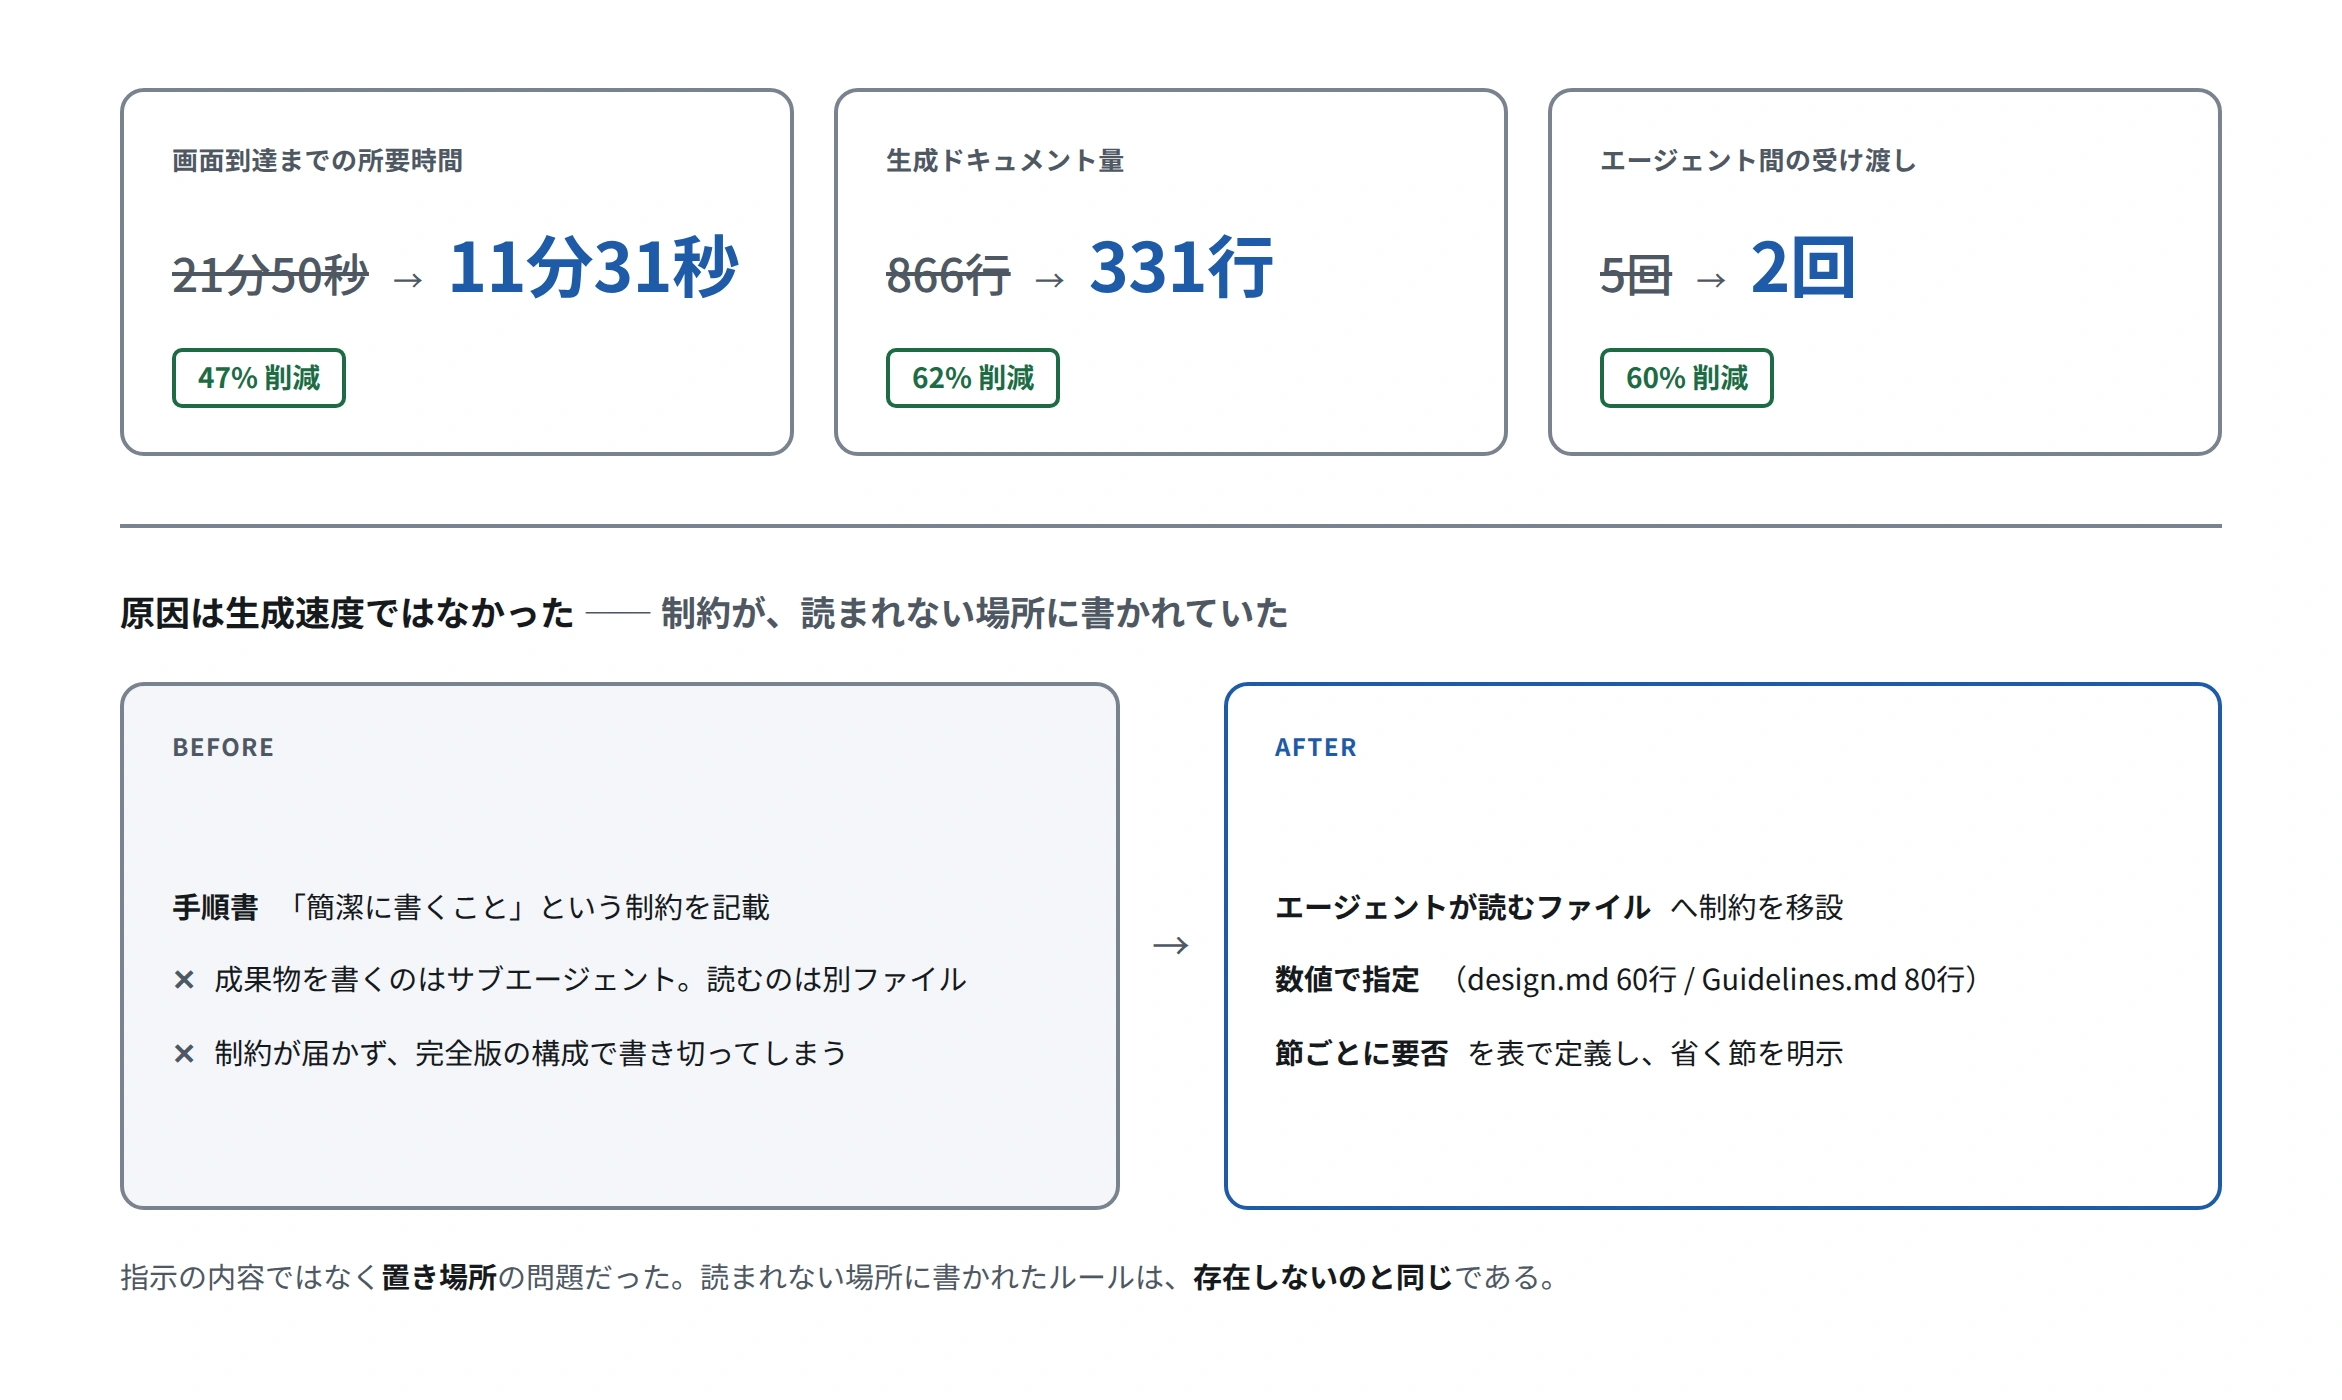
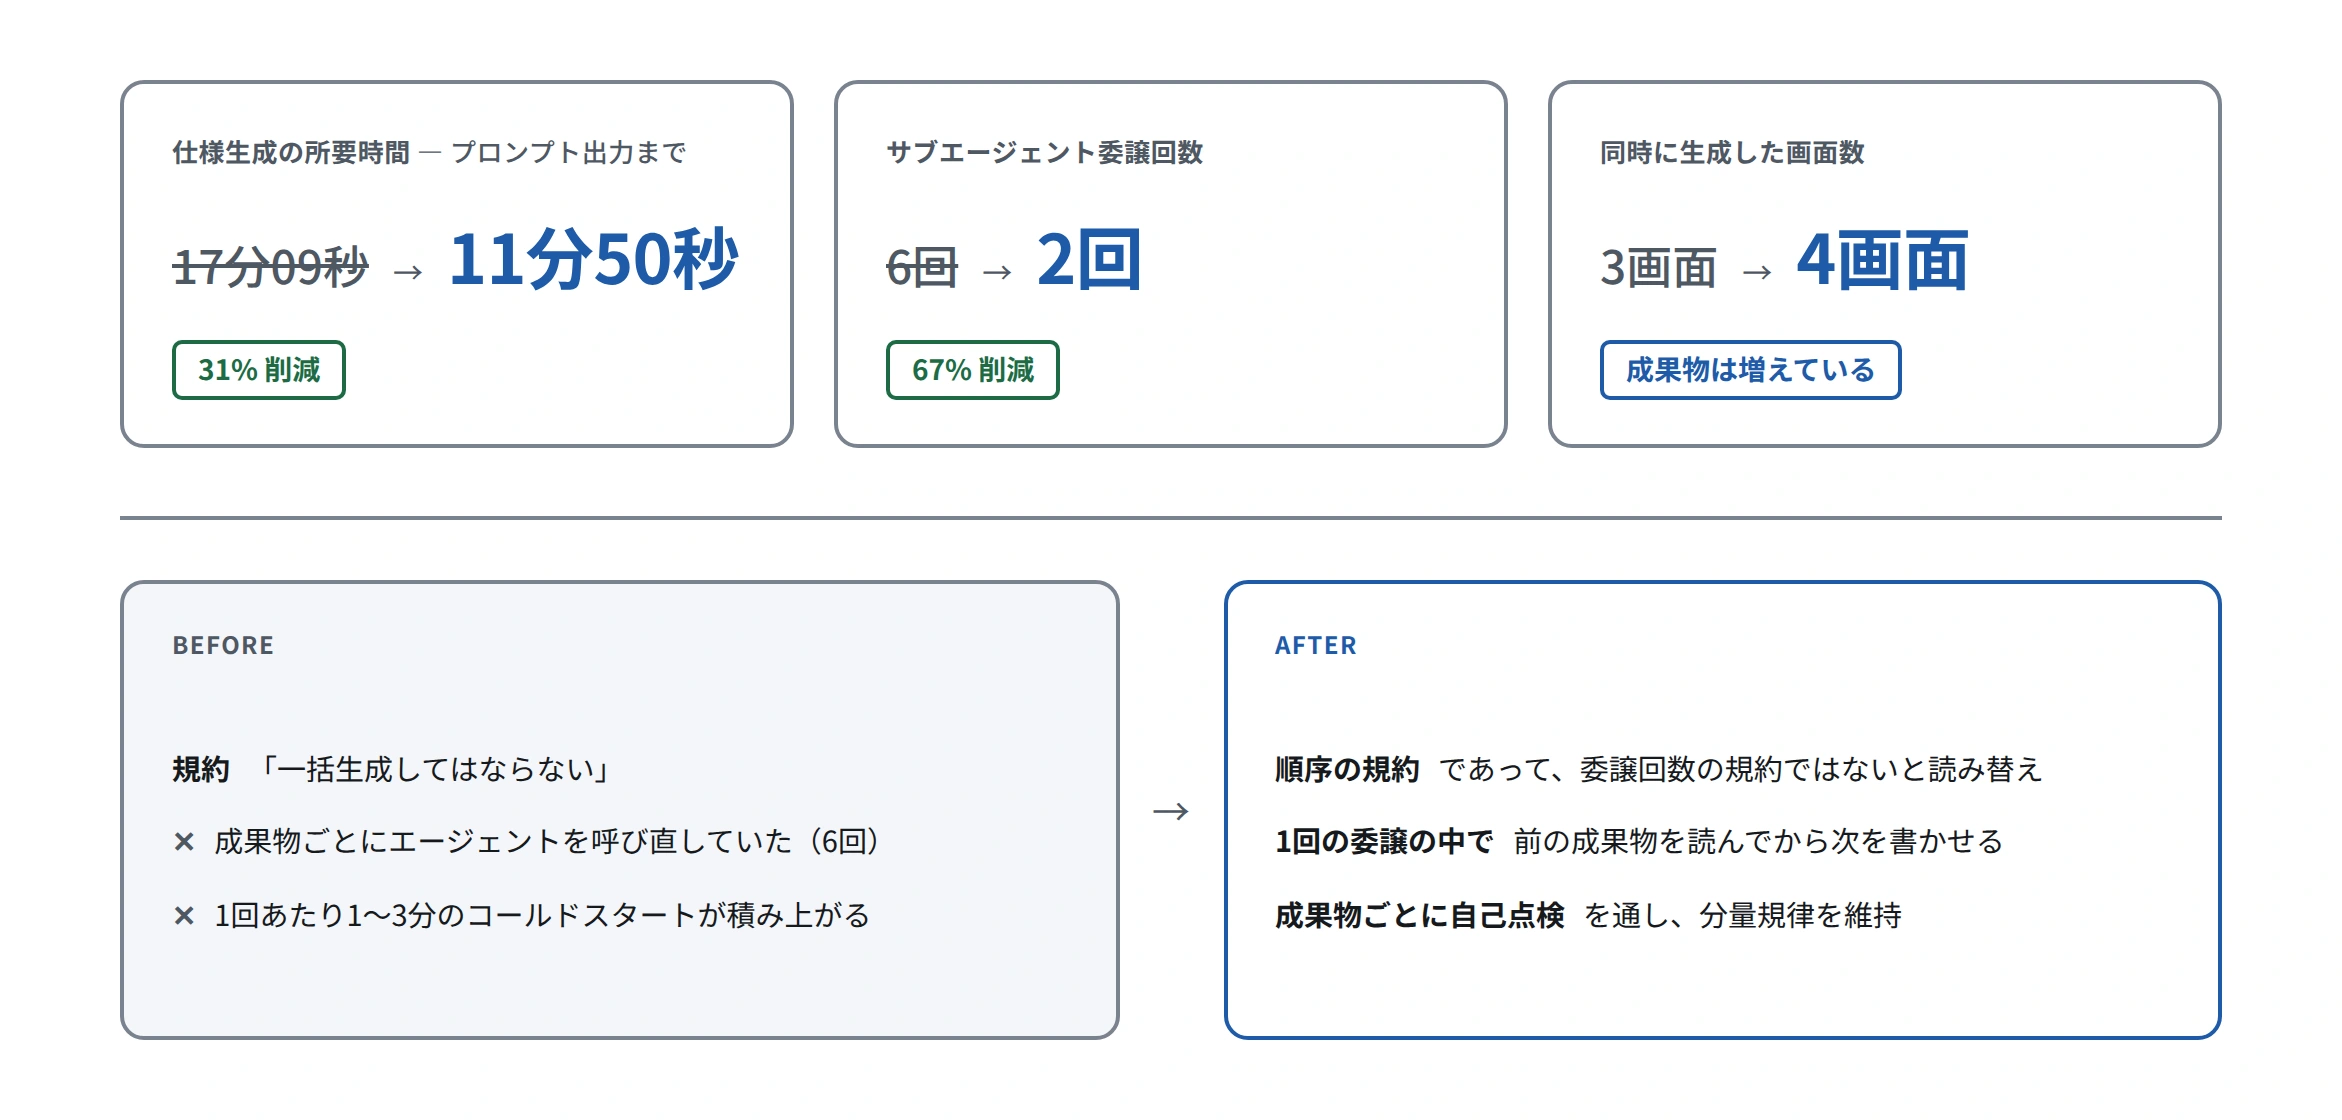
V1.75

diff --git a/data/works/spec-driven-prototyping.ts b/data/works/spec-driven-prototyping.ts
@@ -13,13 +13,13 @@ export const specDrivenPrototyping: Work = {
       "顧客との対話をもとにその場でプロトタイプを作るには、スピードだけでなく、要件や設計判断の根拠を残しながら品質を担保する必要がある。",
 
     solution: [
-      "ヒアリングからプロトタイプ生成までの一気通貫したAIワークフロー。",
-      "DRAFT / ITERATEによる、スピードと品質の両立。",
-      "品質ゲートと自動検証による、設計根拠と品質の担保。",
+      "ヒアリングから画面生成までを一気通貫でつなぐAIワークフロー。仕様生成11分50秒、生成工程で必要な人手操作は約30秒。",
+      "DRAFT / ITERATEの二段階設計。商談中は止まらず、検証は商談後に回す。",
+      "WCAG比率の再計算や機密混入の検出を4本のスクリプトで自動判定し、CIで常時実行。",
     ],
 
     role: {
-      text: "ワークフロー設計、AIエージェント設計、プロンプト設計、Claude Code実装、品質検証",
+      text: "ワークフロー設計、AIエージェント設計、プロンプト設計、Claude Code実装、検証スクリプト実装、計測と改善",
       font: "sans",
     },
 
@@ -38,6 +38,8 @@ export const specDrivenPrototyping: Work = {
       { text: "FigJam", font: "en" },
       { text: "Figma MCP", font: "en" },
       { text: "Figma Make", font: "en" },
+      { text: "Python", font: "en" },
+      { text: "GitHub Actions", font: "en" },
     ],
 
     links: [
@@ -79,8 +81,8 @@ export const specDrivenPrototyping: Work = {
       alt: "AI開発ワークフローの全体構成",
       caption:
         "ヒアリングから仕様化・プロトタイプ制作・レビューまでをつなぐワークフロー",
-      width: 3200,
-      height: 1828,
+      width: 2800,
+      height: 1600,
     },
 
     {
@@ -104,8 +106,8 @@ export const specDrivenPrototyping: Work = {
       src: "/images/works/spec-driven-prototyping/detail-02.webp",
       alt: "3つのAIエージェントと再利用層・案件層の構成",
       caption: "エージェントや知識を再利用層に、案件ごとの成果物を案件層に分離",
-      width: 2816,
-      height: 1536,
+      width: 2342,
+      height: 1400,
     },
 
     {
@@ -113,7 +115,7 @@ export const specDrivenPrototyping: Work = {
       label: "Knowledge Architecture",
       title: "答えではなく、判断基準を与える",
       titleFont: "sans",
-      body: "AIエージェントには、特定の配色やレイアウトといった「正解」をあらかじめ持たせていません。\n\n代わりに、UIデザインやアクセシビリティなどのベストプラクティスを判断基準として参照し、案件の要件や利用文脈から設計を導く構造にしました。\n\n例えば、夜間利用ではダークUI、屋外利用ではライトUIというように、同じ判断基準から利用文脈に応じた設計を導き、その理由も記録します。",
+      body: "AIエージェントには、特定の配色やレイアウトといった「正解」をあらかじめ持たせていません。\n\n代わりに、ISO 9241-11、WCAG、Fittsの法則、OWASPなどを判断基準として参照させ、案件の要件や利用文脈から設計を導く構造にしました。\n\n例えば、夜間利用ではダークUI、屋外利用ではライトUIというように、同じ判断基準から利用文脈に応じた設計を導き、その理由も記録します。\n\nまた、各知識ファイルには出典を明記しています。11ファイルのうち3つは外部の裏付けがない自作の規約であることも明示し、AIが参照する知識の根拠まで確認できるようにしました。",
     },
 
     {
@@ -121,8 +123,8 @@ export const specDrivenPrototyping: Work = {
       src: "/images/works/spec-driven-prototyping/detail-03.webp",
       alt: "プロジェクト情報と判断基準から設計判断を導くAIエージェントの構造",
       caption: "要件・知識・制約をもとに設計を判断し、その根拠をADRとして残す",
-      width: 2816,
-      height: 1536,
+      width: 2342,
+      height: 1400,
     },
 
     {
@@ -130,7 +132,7 @@ export const specDrivenPrototyping: Work = {
       label: "Quality Gate",
       title: "AIの出力を、そのまま正解にしない",
       titleFont: "sans",
-      body: "AIが生成した内容をそのまま採用せず、確認してから次の工程へ進む仕組みを設けました。\n\n数値で確認できるものは自動検証し、要件や設計の整合性など判断が必要なものは人間がレビューします。\n\n例えばアクセシビリティでは、画面のコントラスト比を自動で計算し、基準を満たしているか確認できるようにしています。実際にこの検証で、自分が定めたデザイン規約が可読性より優先される書き方になっていた箇所を発見し、規約自体を修正しました。\n\nまた、外部サービスへ渡すファイルに顧客の発言や機密情報が残っていないかも自動検査しています。渡さないと決めたヒアリング記録の内容が、別のファイルへ引用として転記されていた箇所を実際に検出しました。",
+      body: "AIの出力をそのまま採用せず、数値で判定できるものは自動検証し、要件や設計の整合性など判断が必要なものは人間がレビューする仕組みにしました。\n\n例えばアクセシビリティでは、画面のコントラスト比を自動計算して基準への適合を確認します。この検証によって、自作のデザイン規約が可読性より優先される問題を発見し、規約自体を修正しました。\n\nまた、外部サービスへ渡すファイルに顧客の発言や機密情報が残っていないかも検査します。実際に、渡さないと決めたヒアリング内容が別ファイルへ転記されている箇所を検出しました。\n\nこれらを4本のスクリプトにまとめ、ファイル作成時とGitHubへの反映時に自動実行。AIの判断に依存せず、仕組みとして検査が実行される構造にしています。",
     },
 
     {
@@ -139,7 +141,7 @@ export const specDrivenPrototyping: Work = {
       alt: "WCAGコントラスト比を自動検証するスクリプト",
       caption: "数値で判定できる品質基準は、AIの自己申告ではなく自動検証",
       width: 2342,
-      height: 1200,
+      height: 1400,
     },
 
     {
@@ -147,16 +149,17 @@ export const specDrivenPrototyping: Work = {
       label: "Validation",
       title: "実際に動かして、仕組みを改善する",
       titleFont: "sans",
-      body: "設計したワークフローを実際に動かし、生成時間や成果物を検証しました。\n\n初回は21分50秒・866行を要しましたが、処理を分析すると、出力量を制限する指示がAIエージェントまで正しく伝わっていないことが判明しました。\n\n指示する場所と生成範囲を見直した結果、11分31秒・331行まで削減。同一の入力で2回計測し、所要時間を約47%、生成量を約62%、エージェント間の受け渡しを約60%削減しました。",
+      body: "設計したワークフローを実際に動かして生成時間を計測し、ボトルネックを改善しました。\n\n計測の結果、成果物ごとにAIエージェントを呼び直していたことで、起動時間が積み上がっていることが分かりました。原因は、自分で定めたエージェント運用規約の解釈ミスでした。そこで委譲を6回から2回へ統合し、仕様生成時間を17分09秒から11分50秒へ約31%短縮しました。生成する画面が3画面から4画面へ増えたうえでの短縮です。\n\nプロトタイプ生成までの全体所要時間は約20〜28分で、そのうち人手による操作はファイル添付とプロンプト貼付の約30秒です。",
     },
 
     {
       type: "image",
       src: "/images/works/spec-driven-prototyping/detail-05.webp",
       alt: "AI開発ワークフロー改善前後の比較",
-      caption: "ワークフロー改善前後：所要時間 約47%削減 / 生成量 約62%削減",
+      caption:
+        "委譲を6回から2回へ統合：所要時間 31%削減、生成する画面は3画面から4画面へ",
       width: 2342,
-      height: 1400,
+      height: 1120,
     },
 
     {
@@ -191,7 +194,7 @@ export const specDrivenPrototyping: Work = {
       label: "Reflection",
       title: "振り返り",
       titleFont: "sans",
-      body: "本プロジェクトを通して、生成AIを活用するうえでは、プロンプトだけでなく「どの工程で、何を判断させ、どこで検証するか」というプロセス設計が重要だと実感しました。\n\nまた、実際にワークフローを動かすことで、指示が正しく伝わらない箇所や、AIだけでは担保できない品質など、設計時には見えなかった課題も発見できました。\n\n現在はヒアリングからプロトタイプ生成までを実際に検証済みです。仕様レビュー以降の実装フローは設計済みで、今後の検証対象としています。",
+      body: "本プロジェクトを通して、生成AIを活用するうえでは、プロンプトだけでなく「どの工程で何を判断させ、どこで人間が確認するか」というプロセス設計が重要だと実感しました。\n\nまた、設計した仕組みを実際に動かして計測・検証することで、設計時には見えなかった問題を発見し、ワークフローそのものを改善できました。\n\n今回は確定した仕様と動くプロトタイプまでを対象とし、実装は意図的に含めていません。プロトタイプを作り直すのではなく、実装可能な単位へ分解した成果物を引き渡し、既存の開発プロセスへ接続できる設計としました。",
     },
   ],
 };
